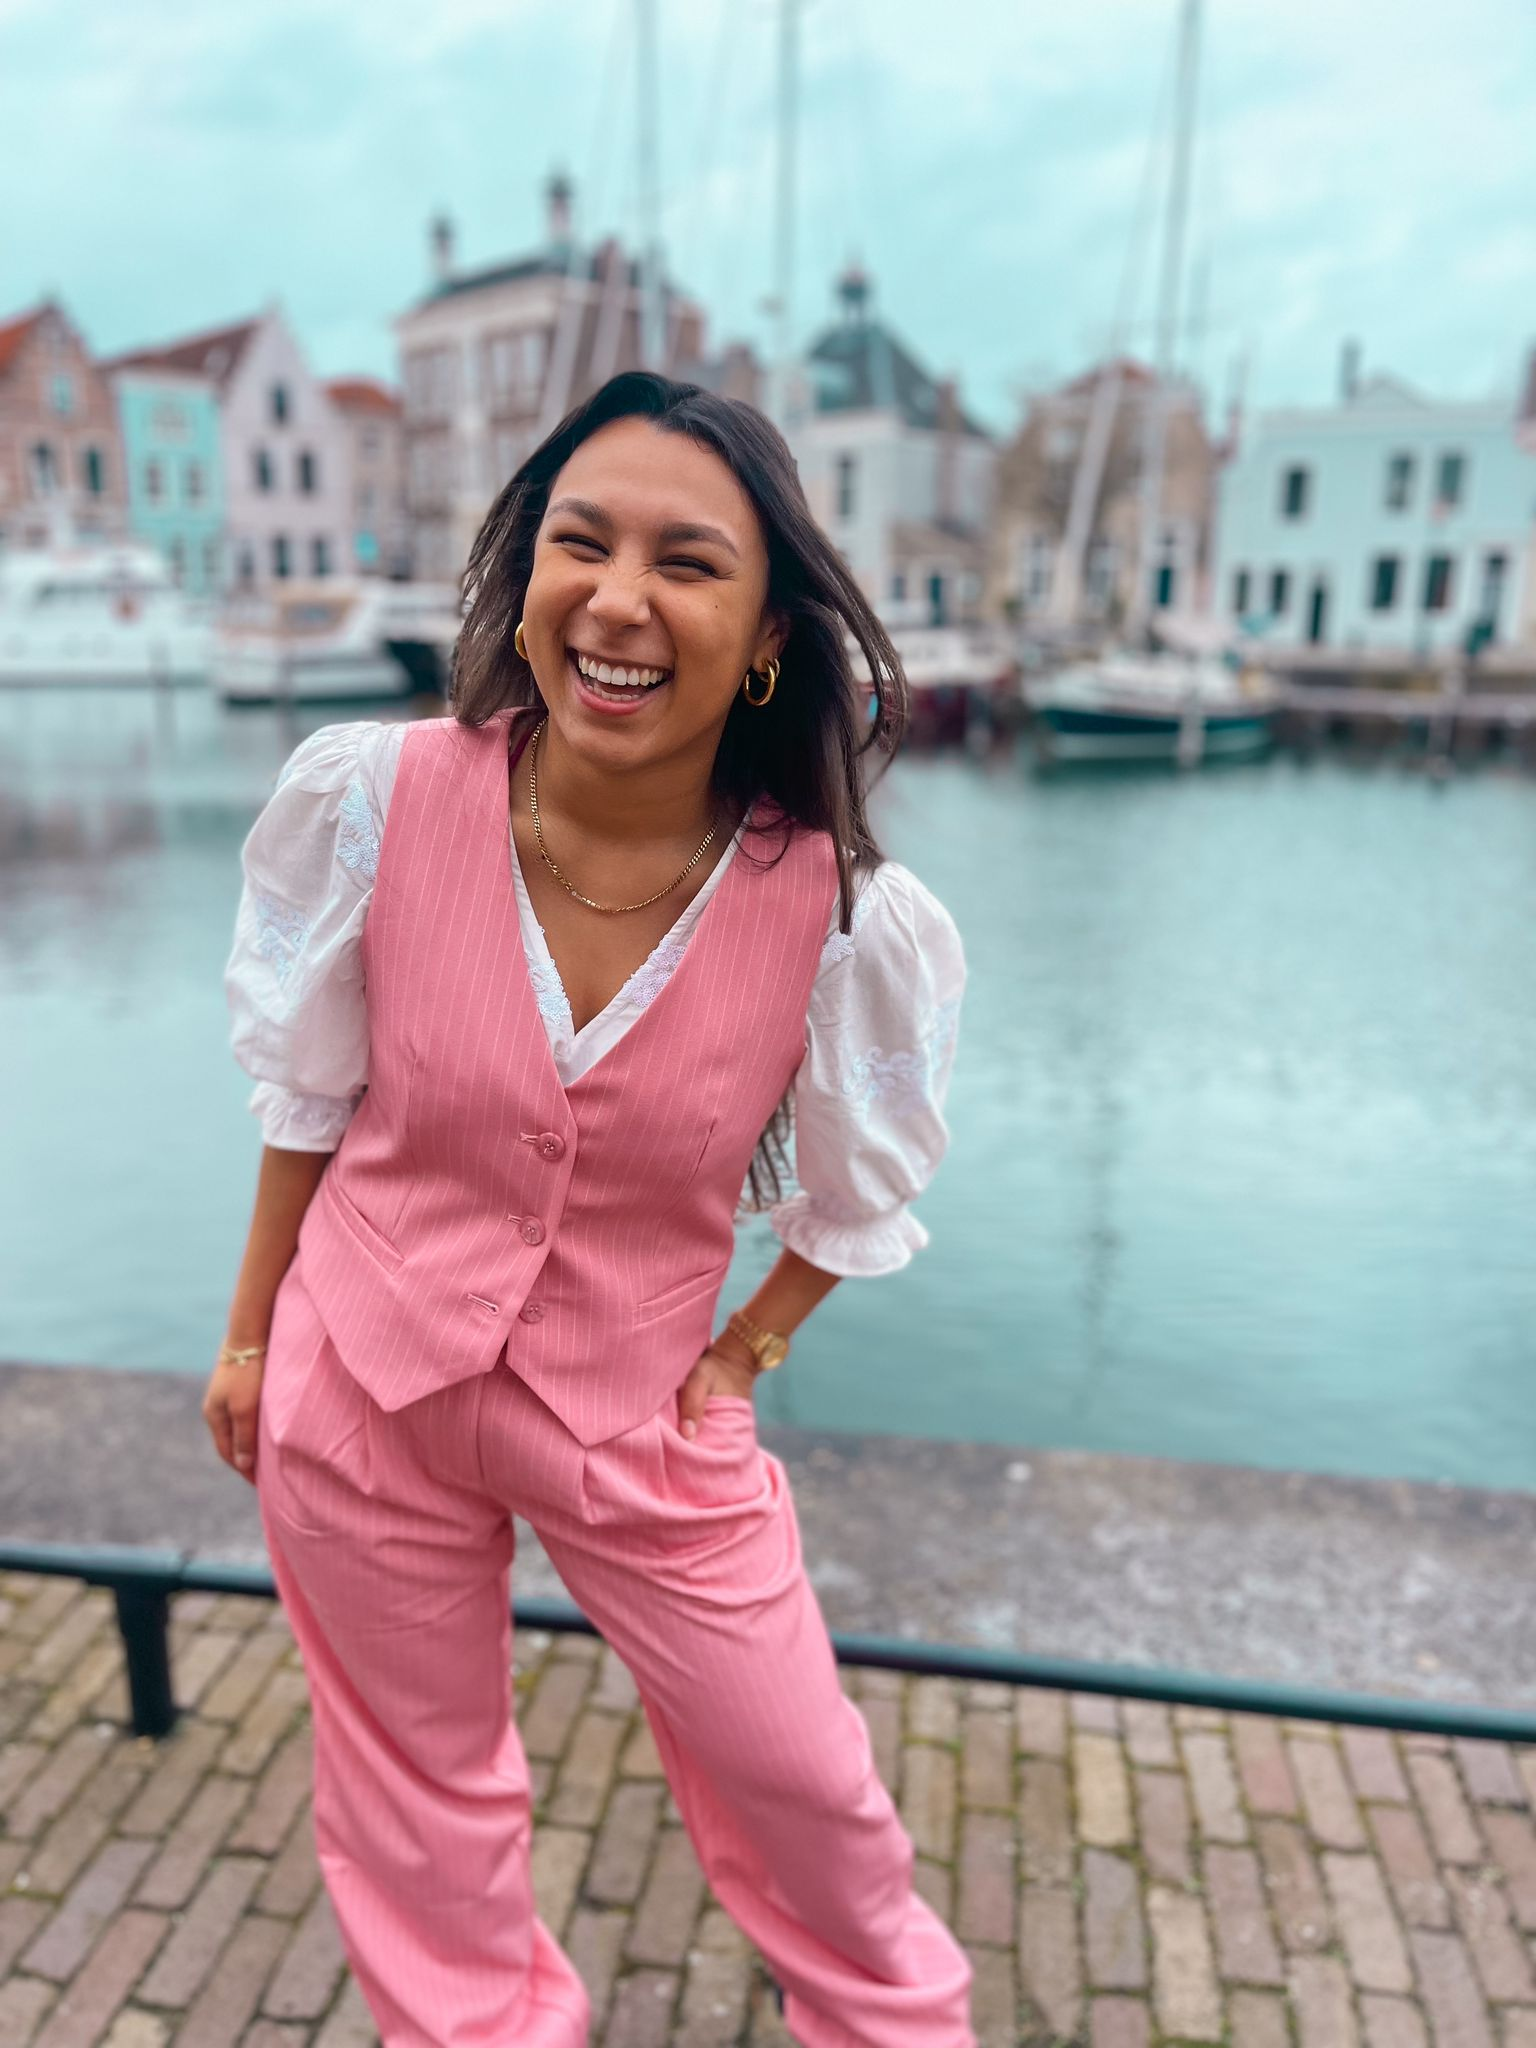
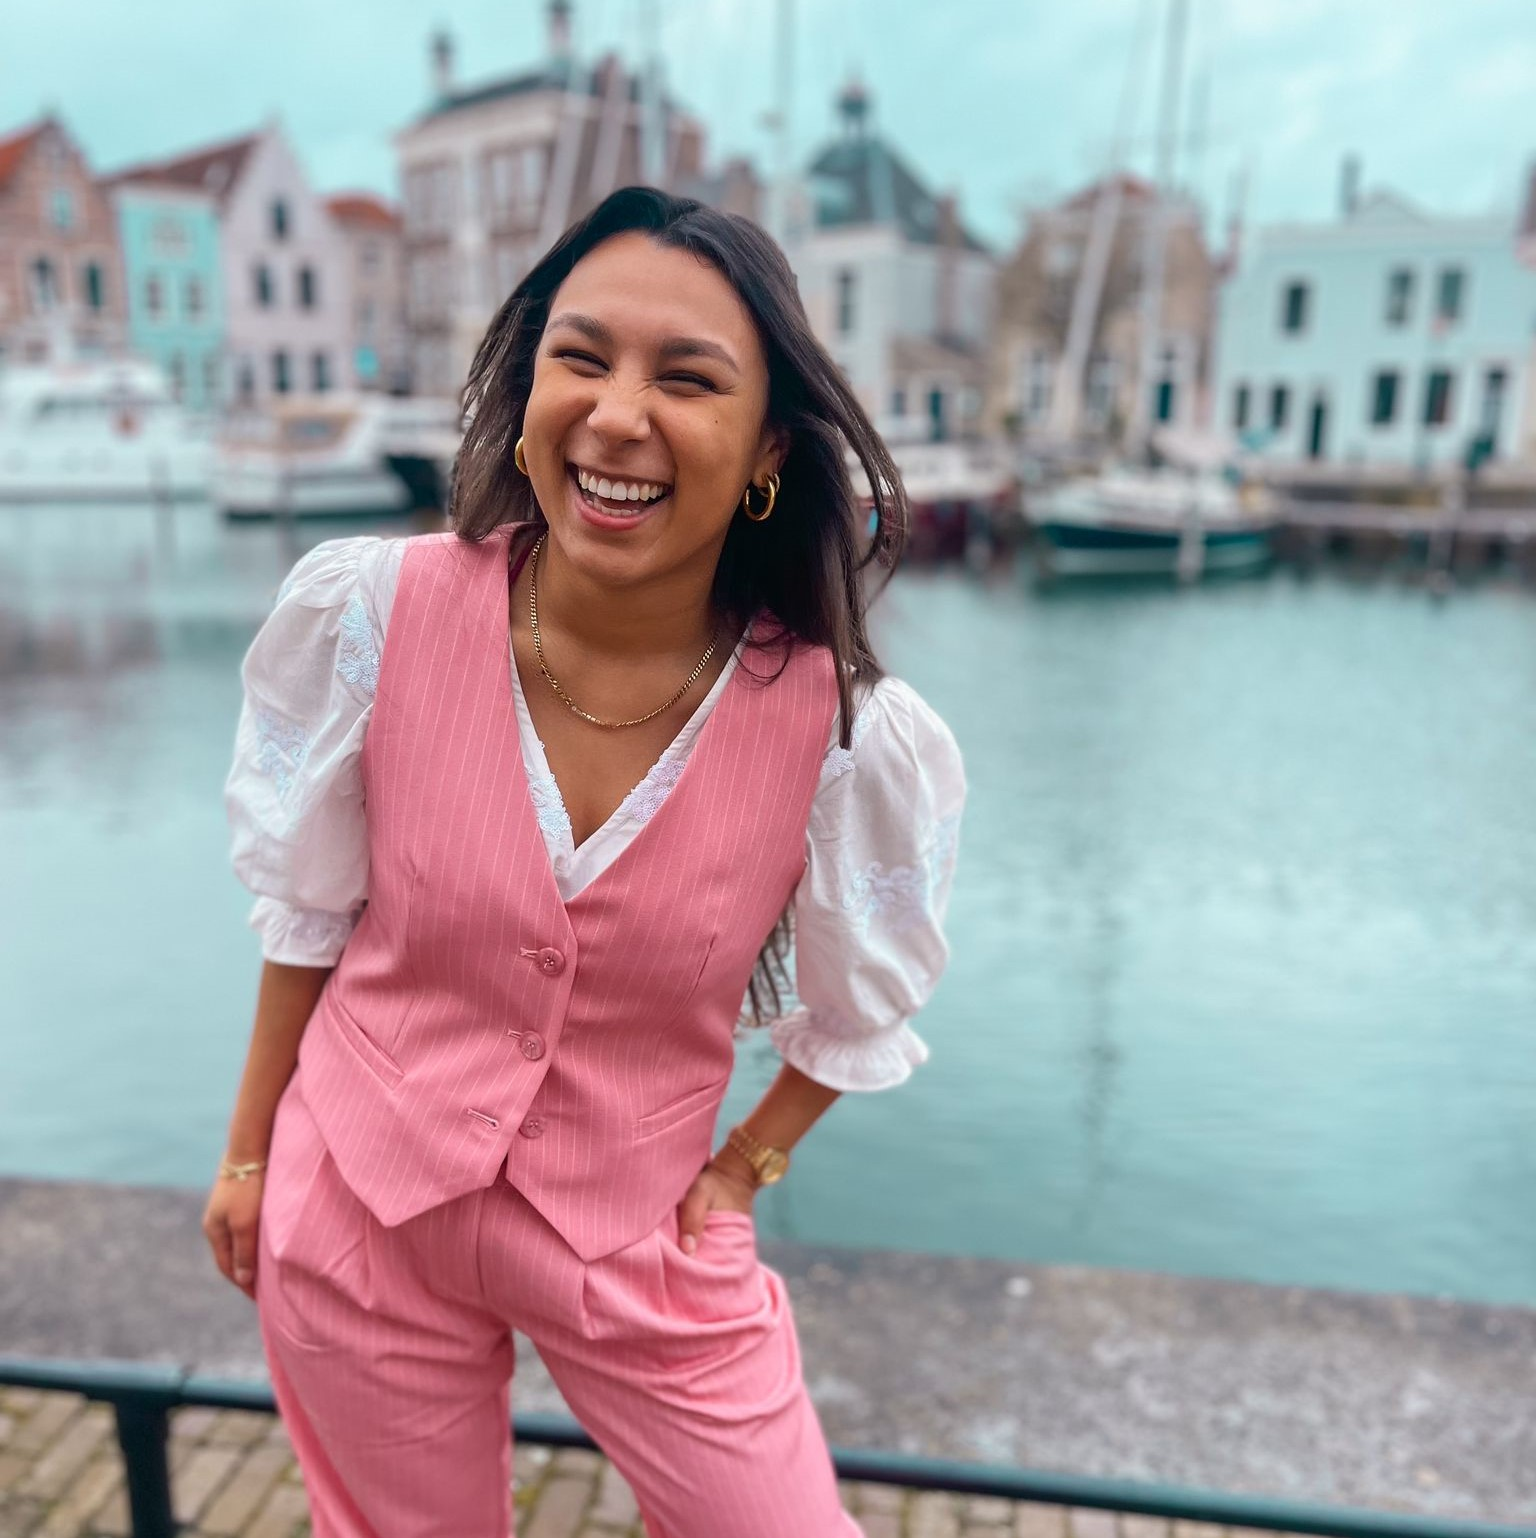
tekst

diff --git a/about.html b/about.html
@@ -143,8 +143,7 @@
                                 of the terms "website" and "camper." However, it also includes 
                                 the word campsite, referring to a location where camping is 
                                 permitted. Our target audience loves camping and therefore it fits with our audience.
-                                 In order to make our logo memorable, we made it very simple. 
-                            </p>
+                                 In order to make our logo memorable, we made it very simple. </p>
 
                         <!-- Read More Button -->
                         <a href="#" class="btn btn-primary">Read More</a>
@@ -163,7 +162,7 @@
                 <div class="col-lg-3 col-md-4 col-sm-6 pb-1">
                     <div class="team-item bg-white mb-4">
                         <div class="team-img position-relative overflow-hidden">
-                            <img class="img-fluid w-100" src="img/team-1.jpg" alt="">
+                            <img class="img-fluid w-100" src="img/fotoNOA.jpg" alt="">
                             <div class="team-social">
                                 <a class="btn btn-outline-primary btn-square" href=""><i class="fab fa-twitter"></i></a>
                                 <a class="btn btn-outline-primary btn-square" href=""><i class="fab fa-facebook-f"></i></a>
@@ -172,7 +171,7 @@
                             </div>
                         </div>
                         <div class="text-center py-4">
-                            <h5 class="text-truncate">Guide Name</h5>
+                            <h5 class="text-truncate">Noa van Bodegom</h5>
                             <p class="m-0">Designation</p>
                         </div>
                     </div>
@@ -180,7 +179,7 @@
                 <div class="col-lg-3 col-md-4 col-sm-6 pb-1">
                     <div class="team-item bg-white mb-4">
                         <div class="team-img position-relative overflow-hidden">
-                            <img class="img-fluid w-100" src="img/team-2.jpg" alt="">
+                            <img class="img-fluid w-100" src="img/Foto bente.jpg" alt="">
                             <div class="team-social">
                                 <a class="btn btn-outline-primary btn-square" href=""><i class="fab fa-twitter"></i></a>
                                 <a class="btn btn-outline-primary btn-square" href=""><i class="fab fa-facebook-f"></i></a>
@@ -189,7 +188,7 @@
                             </div>
                         </div>
                         <div class="text-center py-4">
-                            <h5 class="text-truncate">Guide Name</h5>
+                            <h5 class="text-truncate">Bente Fuit</h5>
                             <p class="m-0">Designation</p>
                         </div>
                     </div>
@@ -197,7 +196,7 @@
                 <div class="col-lg-3 col-md-4 col-sm-6 pb-1">
                     <div class="team-item bg-white mb-4">
                         <div class="team-img position-relative overflow-hidden">
-                            <img class="img-fluid w-100" src="img/team-3.jpg" alt="">
+                            <img class="img-fluid w-100" src="img/FotoAnnika.jpg" alt="">
                             <div class="team-social">
                                 <a class="btn btn-outline-primary btn-square" href=""><i class="fab fa-twitter"></i></a>
                                 <a class="btn btn-outline-primary btn-square" href=""><i class="fab fa-facebook-f"></i></a>
@@ -206,7 +205,7 @@
                             </div>
                         </div>
                         <div class="text-center py-4">
-                            <h5 class="text-truncate">Guide Name</h5>
+                            <h5 class="text-truncate">Annika Gabriëlse</h5>
                             <p class="m-0">Designation</p>
                         </div>
                     </div>
@@ -214,7 +213,7 @@
                 <div class="col-lg-3 col-md-4 col-sm-6 pb-1">
                     <div class="team-item bg-white mb-4">
                         <div class="team-img position-relative overflow-hidden">
-                            <img class="img-fluid w-100" src="img/team-4.jpg" alt="">
+                            <img class="img-fluid w-100" src="img/foto claudia.jpg" alt="">
                             <div class="team-social">
                                 <a class="btn btn-outline-primary btn-square" href=""><i class="fab fa-twitter"></i></a>
                                 <a class="btn btn-outline-primary btn-square" href=""><i class="fab fa-facebook-f"></i></a>
@@ -223,7 +222,7 @@
                             </div>
                         </div>
                         <div class="text-center py-4">
-                            <h5 class="text-truncate">Guide Name</h5>
+                            <h5 class="text-truncate">Claudia Geelhoed</h5>
                             <p class="m-0">Designation</p>
                         </div>
                     </div>
